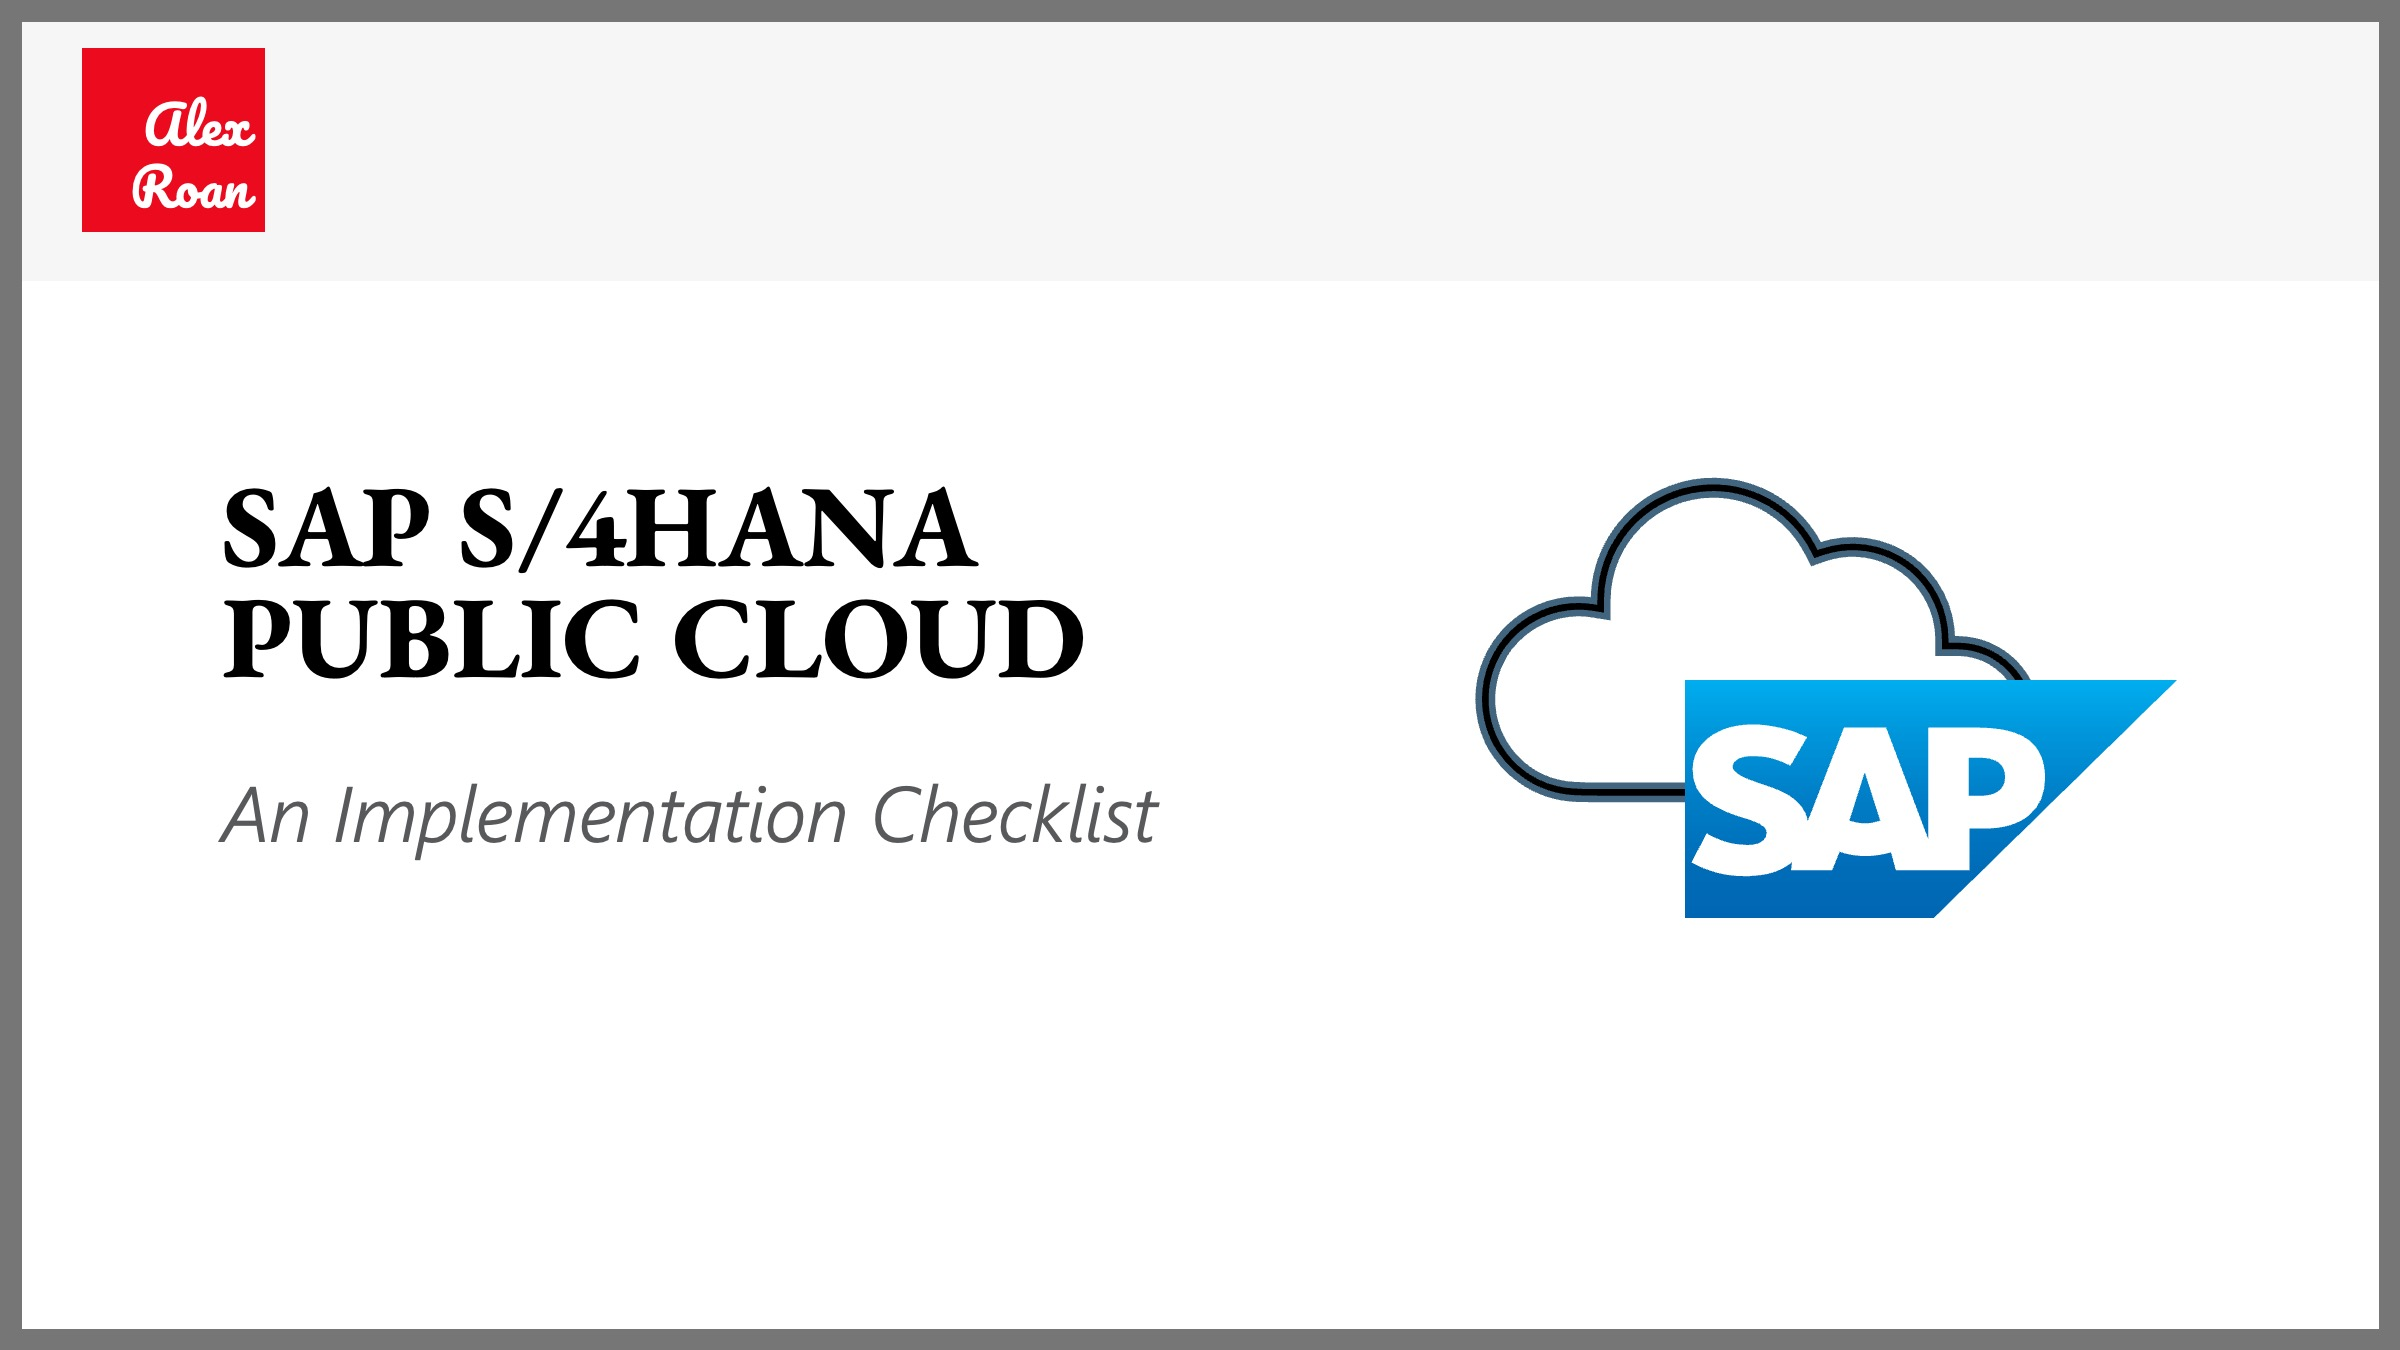
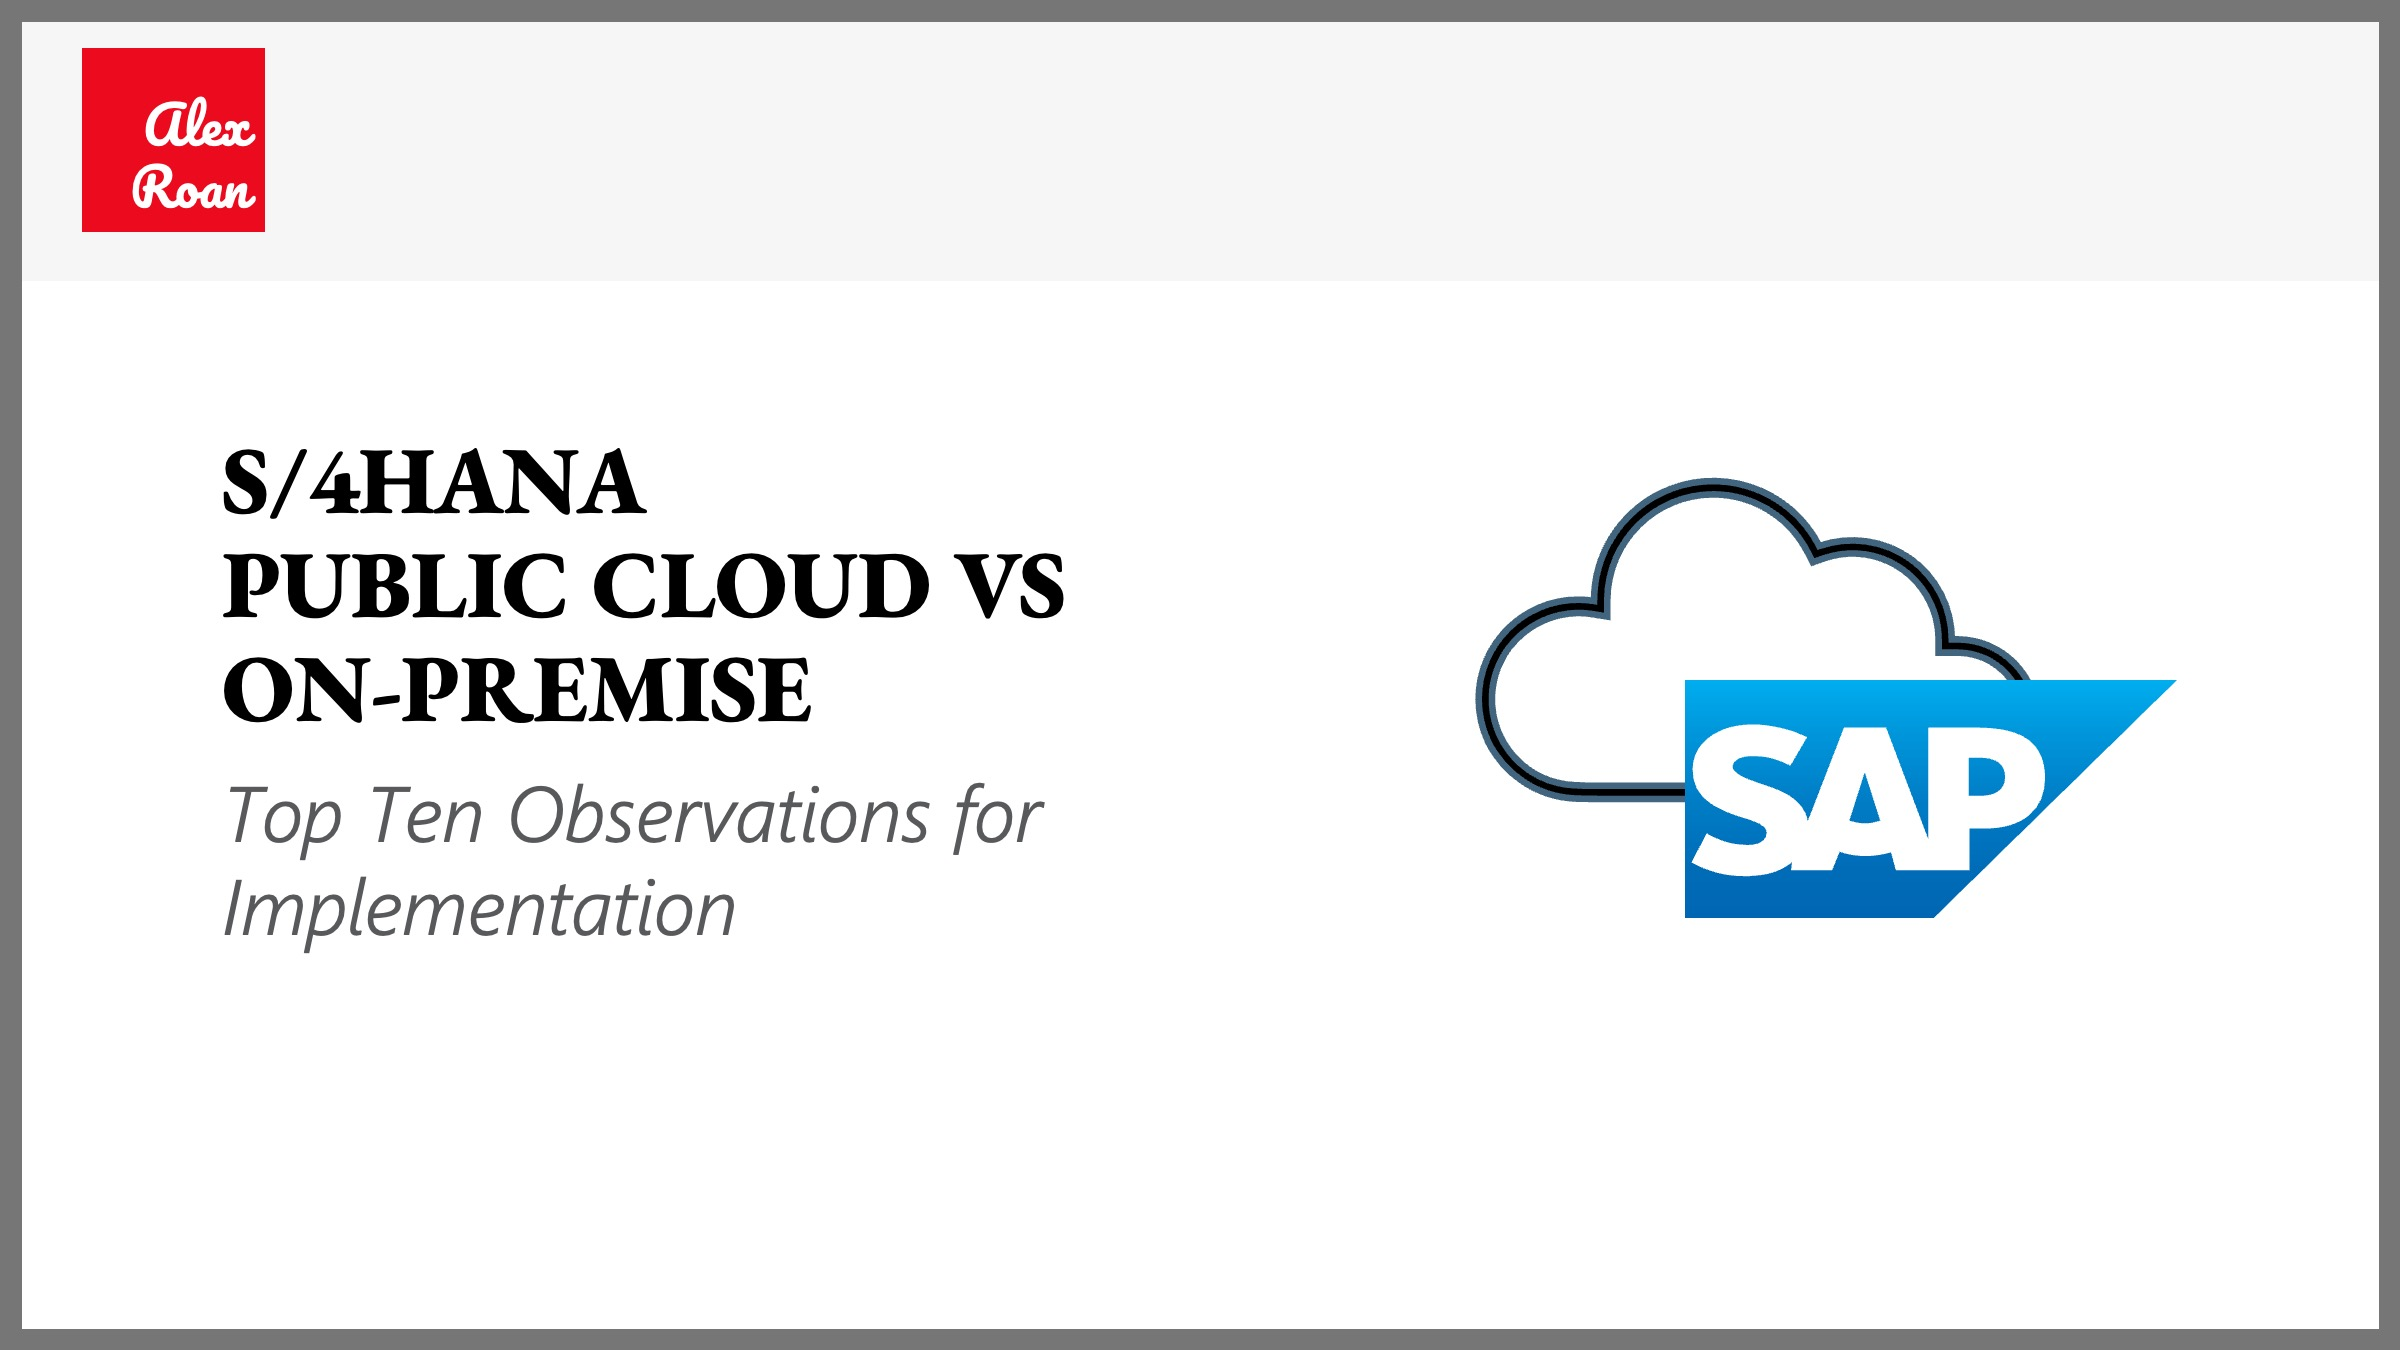
change title and add cover

Changed region(s): [[0.0938, 0.3111, 0.5, 0.6222], [0.0938, 0.6533, 0.3125, 0.7156]]

diff --git a/src/posts/2025-10-02-s4hana-cloud-public.md b/src/posts/2025-10-02-s4hana-cloud-public.md
@@ -1,5 +1,5 @@
 ---
-title: S/4HANA Cloud Public - Implementation Guide
+title: How different is the implementation of S/4HANA Cloud Public from on-premise?
 author: Alexander Roan
 date: 2025-09-05
 tags: 
@@ -7,7 +7,7 @@ hashtags: ["post", "sap", "finance"]
 project: 
 subproject:
 image: 
-imageAlt:
+imageAlt: /assets/images/sap/cloud/s4hana-cloud-cover.jpg
 description:  I've started looking into the implementation process for SAP S/4HANA Public Cloud
 ---
 
